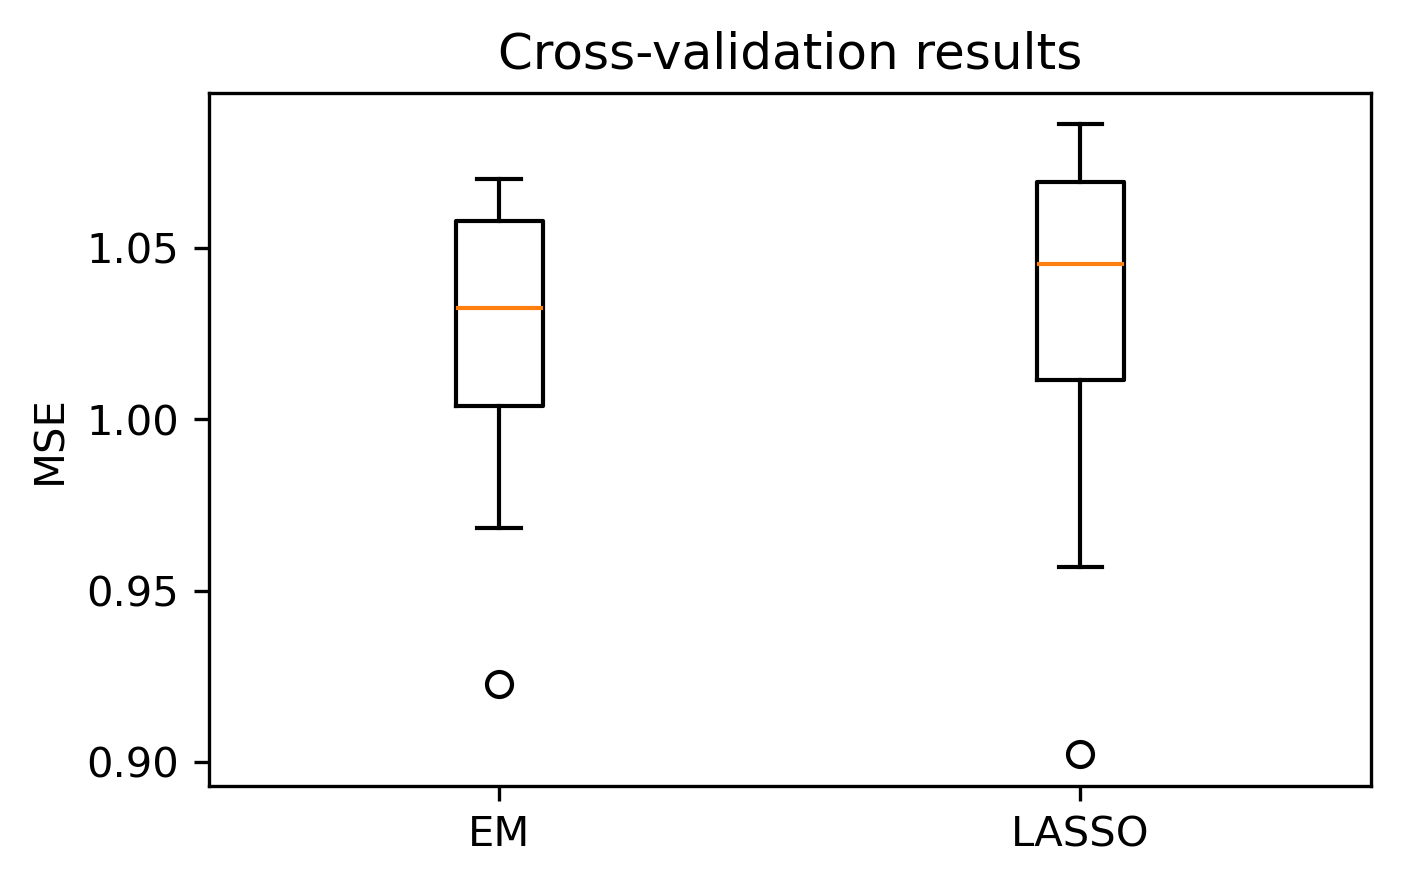
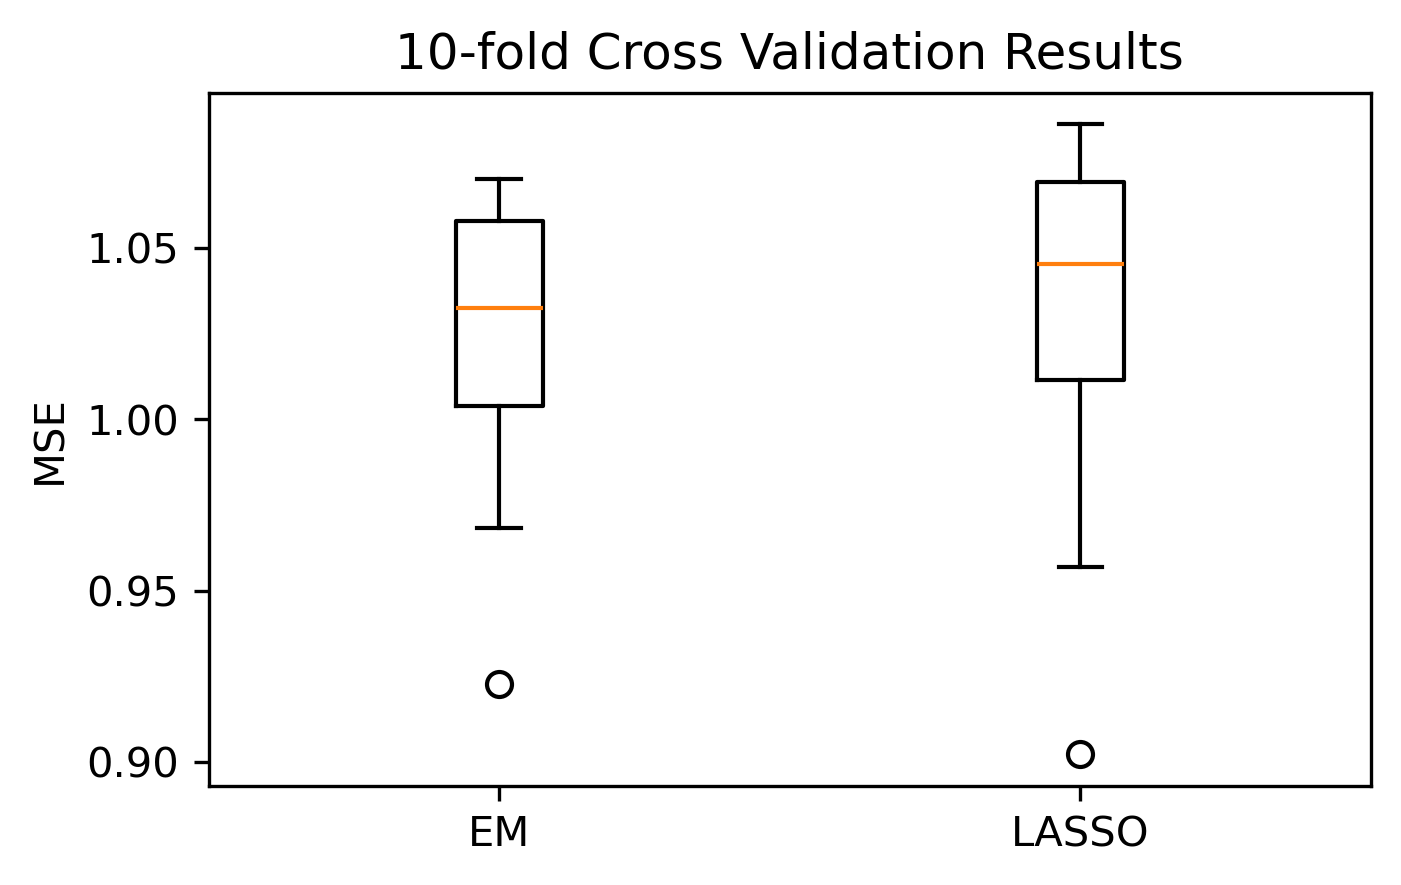
update

Changed region(s): [[0.2762, 0.0305, 0.8594, 0.0915]]

diff --git a/main.py b/main.py
@@ -12,35 +12,29 @@ from code.variational_inference import VariationalInference
 
 def em_algorithm(y, Z, X, omega_init, sigma_b2_init, sigma_e2_init, max_iter=200, tol=1e-6, cv_folds=5):
 
-    # y_train, Z_train, X_train, y_test, Z_test, X_test = split_train_test(y, Z, X, test_size=0.2)
-
-    y_train, Z_train, X_train = y, Z, X
-
     # ---------------- EM algorithm ----------------
     em_params = {'max_iter': max_iter, 'tol': tol, 'omega': omega_init, 'sigma_b2': sigma_b2_init, 'sigma_e2': sigma_e2_init}
     em = EMAlgorithm(**em_params)
 
-    log_marginal_likelihoods, Theta, E_beta = em.fit(y_train, Z_train, X_train)
+    log_marginal_likelihoods, Theta, E_beta = em.fit(y, Z, X)
 
     print("Log marginal likelihoods:", log_marginal_likelihoods)
     print("Estimate of Theta:", Theta)
     # print("Posterior mean of beta:", E_beta)
 
-    y_train_pred = em.predict(Z_train, X_train)
-    print('EM Train MSE:', mean_squared_error(y_train, y_train_pred))
-    # y_test_pred = em.predict(Z_test, X_test)
-    # print('EM Test MSE:', mean_squared_error(y_test, y_test_pred))
+    y_train_pred = em.predict(Z, X)
+    print('EM Train MSE:', mean_squared_error(y, y_train_pred))
 
     # Plot marginal likelihood
     em.plot_marginal_likelihood('outputs/log_marginal_likelihoods.png')
 
     # Cross validation
-    # cv_mses = cross_validate(y, Z, X, EMAlgorithm, em_params, n_splits=cv_folds)
+    cv_mses = cross_validate(y, Z, X, EMAlgorithm, em_params, n_splits=cv_folds)
 
-    # print('CV Mean MSE:', np.mean(cv_mses))
-    # print('CV MSEs:', cv_mses)
+    print('CV Mean MSE:', np.mean(cv_mses))
+    print('CV MSEs:', cv_mses)
 
-    # np.savetxt('outputs/em_cv_mses.csv', cv_mses, delimiter=',')
+    np.savetxt('outputs/em_cv_mses.csv', cv_mses, delimiter=',')
 
 
 def variational_inference(y, Z, X, omega_init, sigma_b2_init, sigma_e2_init, max_iter=200, tol=1e-6, cv_folds=5):
@@ -49,24 +43,25 @@ def variational_inference(y, Z, X, omega_init, sigma_b2_init, sigma_e2_init, max
     vi_params = {'max_iter': max_iter, 'tol': tol, 'omega': omega_init, 'sigma_b2': sigma_b2_init, 'sigma_e2': sigma_e2_init}
     vi = VariationalInference(**vi_params)
 
-    log_marginal_likelihoods, Theta = vi.fit(y, Z, X)
+    # log_marginal_likelihoods, Theta = vi.fit(y, Z, X)
   
-    print("Log marginal likelihoods:", log_marginal_likelihoods)
-    print("Estimate of Theta:", Theta)
+    # print("Log marginal likelihoods:", log_marginal_likelihoods)
+    # print("Estimate of Theta:", Theta)
 
-    y_train_pred = vi.predict(Z, X)
-    print('EM Train MSE:', mean_squared_error(y, y_train_pred))
+    # y_train_pred = vi.predict(Z, X)
+    # print('EM Train MSE:', mean_squared_error(y, y_train_pred))
 
     # Plot marginal likelihood
-    vi.plot_marginal_likelihood('outputs/log_marginal_likelihoods_vi.png')
+    vi.plot_marginal_likelihood_and_elbo('outputs/log_marginal_likelihoods_vi.png')
+    vi.plot_gap('outputs/gap.png')
 
     # Cross validation
-    cv_mses = cross_validate(y, Z, X, VariationalInference, vi_params, n_splits=cv_folds)
+    # cv_mses = cross_validate(y, Z, X, VariationalInference, vi_params, n_splits=cv_folds)
 
-    print('CV Mean MSE:', np.mean(cv_mses))
-    print('CV MSEs:', cv_mses)
+    # print('CV Mean MSE:', np.mean(cv_mses))
+    # print('CV MSEs:', cv_mses)
 
-    np.savetxt('outputs/vi_cv_mses.csv', cv_mses, delimiter=',')
+    # np.savetxt('outputs/vi_cv_mses.csv', cv_mses, delimiter=',')
 
     
 
@@ -107,7 +102,7 @@ if __name__ == '__main__':
 
     # lasso(y, Z, X, cv_folds=10)
 
-    # cv_boxplot(cv_mses_dirs=['outputs/em_cv_mses.csv', 'outputs/lasso_cv_mses.csv'], save_path='outputs/cv_boxplot.png', labels=['EM', 'LASSO'])    
+    cv_boxplot(cv_mses_dirs=['outputs/em_cv_mses.csv', 'outputs/lasso_cv_mses.csv'], save_path='outputs/cv_boxplot.png', labels=['EM', 'LASSO'])    
 
     # variational_inference(y, Z, X, omega_init=np.zeros(10), sigma_b2_init=1, sigma_e2_init=0.5, max_iter=100, tol=1e-6, cv_folds=10)
 

diff --git a/code/variational_inference.py b/code/variational_inference.py
@@ -15,6 +15,7 @@ class VariationalInference:
         self.p = None
         self.c = None
         self.log_marginal_likelihoods = None
+        self.ELBOs = None
         self.Theta = None
         self.m = None
 
@@ -66,6 +67,7 @@ class VariationalInference:
         s2 = np.ones(p)
         
         log_marginal_likelihoods = []
+        ELBOs = []
 
         ZTZZT = np.linalg.inv(Z.T @ Z) @ Z.T
         XTX = X.T @ X
@@ -82,9 +84,6 @@ class VariationalInference:
             for j in range(p):
                 s2[j] = (X[:, j].T @ X[:, j] / sigma_e2 + 1 / sigma_b2) ** -1
                 m[j] = s2[j] / sigma_e2 * (y - Z @ omega).T @ X[:, j]
-
-
-            
             
             # M-step
             omega_new = ZTZZT @ (y - X @ m)
@@ -108,16 +107,26 @@ class VariationalInference:
             Diag = XXT_eigen_values / sigma_e2 + 1 / sigma_b2
             log_marginal_likelihood = -np.sum(np.log(Diag)) / 2 - n / 2 * np.log(sigma_b2) - n / 2 * np.log(sigma_e2) - n / 2 * np.log(2 * np.pi) - 1 / 2 * np.sum((y - Z @ omega) ** 2 / Diag)
 
+            E_1 = -(n + p) / 2 * np.log(2 * np.pi) - n / 2 * np.log(sigma_e2) - p / 2 * np.log(sigma_b2) - 1 / (2 * sigma_e2) * (y - Z @ omega).T @ (y - Z @ omega) + 1 / sigma_e2 * (y - Z @ omega).T @ X @ m - 1 / (2 * sigma_e2) * (np.trace(X @ np.diag(s2) @ X.T) + m.T @ X.T @ X @ m) - 1 / (2 * sigma_b2) * (np.sum(s2) + m.T @ m)
+            E_2 = -p / 2 * np.log(2 * np.pi) - 1 / 2 * np.sum(np.log(s2)) - p / 2
+            ELBO = E_1 + E_2 + 1000
+
             log_marginal_likelihoods.append(log_marginal_likelihood)
+            ELBOs.append(ELBO)
+
+            print(log_marginal_likelihood)
+            print(ELBO)
 
         self.n = n
         self.p = p
         self.c = c
         self.log_marginal_likelihoods = log_marginal_likelihoods
+        self.ELBOs = ELBOs
         self.Theta = Theta
         self.m = m
 
-        np.savetxt('outputs/log_marginal_likelihoods.csv', log_marginal_likelihoods, delimiter=',')
+        np.savetxt('outputs/log_marginal_likelihoods_vi.csv', log_marginal_likelihoods, delimiter=',')
+        np.savetxt('outputs/ELBOs.csv', ELBOs, delimiter=',')
 
         return log_marginal_likelihoods, Theta
 
@@ -129,12 +138,29 @@ class VariationalInference:
 
         return y_hat
 
-    def plot_marginal_likelihood(self, save_path):
+    def plot_marginal_likelihood_and_elbo(self, save_path):
         if self.log_marginal_likelihoods is None:
-            self.log_marginal_likelihoods = np.genfromtxt('outputs/vi_log_marginal_likelihoods.csv')
-        plt.figure(figsize=(5, 3), dpi=300)
+            self.log_marginal_likelihoods = np.genfromtxt('outputs/log_marginal_likelihoods_vi.csv')
+        if self.ELBOs is None:
+            self.ELBOs = np.genfromtxt('outputs/ELBOs.csv')
+
+        plt.figure(figsize=(5, 4), dpi=300)
         plt.plot(self.log_marginal_likelihoods)
+        plt.plot(self.ELBOs)
+        plt.legend(['Log Marginal Likelihood', 'ELBO'])
         plt.xlabel('Iteration')
-        plt.ylabel('Log Marginal Likelihood')
+        plt.savefig(save_path, bbox_inches='tight')
+        plt.close()
+
+    def plot_gap(self, save_path):
+        """
+        Plot the gap between the log marginal likelihood and the ELBO.
+        :param save_path: The path to save the plot.
+        :return: None
+        """
+        plt.figure(figsize=(5, 4), dpi=300)
+        plt.plot(self.log_marginal_likelihoods - self.ELBOs, color='green')
+        plt.xlabel('Iteration')
+        plt.ylabel('Gap')
         plt.savefig(save_path, bbox_inches='tight')
         plt.close()

diff --git a/code/utils.py b/code/utils.py
@@ -83,7 +83,7 @@ def cv_boxplot_2(cv_mses, save_path='boxplot.png', labels=['Lasso', 'EM', 'VI'])
     fig, ax = plt.subplots(figsize=(5, 3), dpi=300)
     ax.boxplot(cv_mses, labels=labels)
     ax.set_ylabel('MSE')
-    ax.set_title('Cross Validation Results')
+    ax.set_title('10-fold Cross Validation Results')
     plt.savefig(save_path, bbox_inches='tight')
     plt.close()
 
